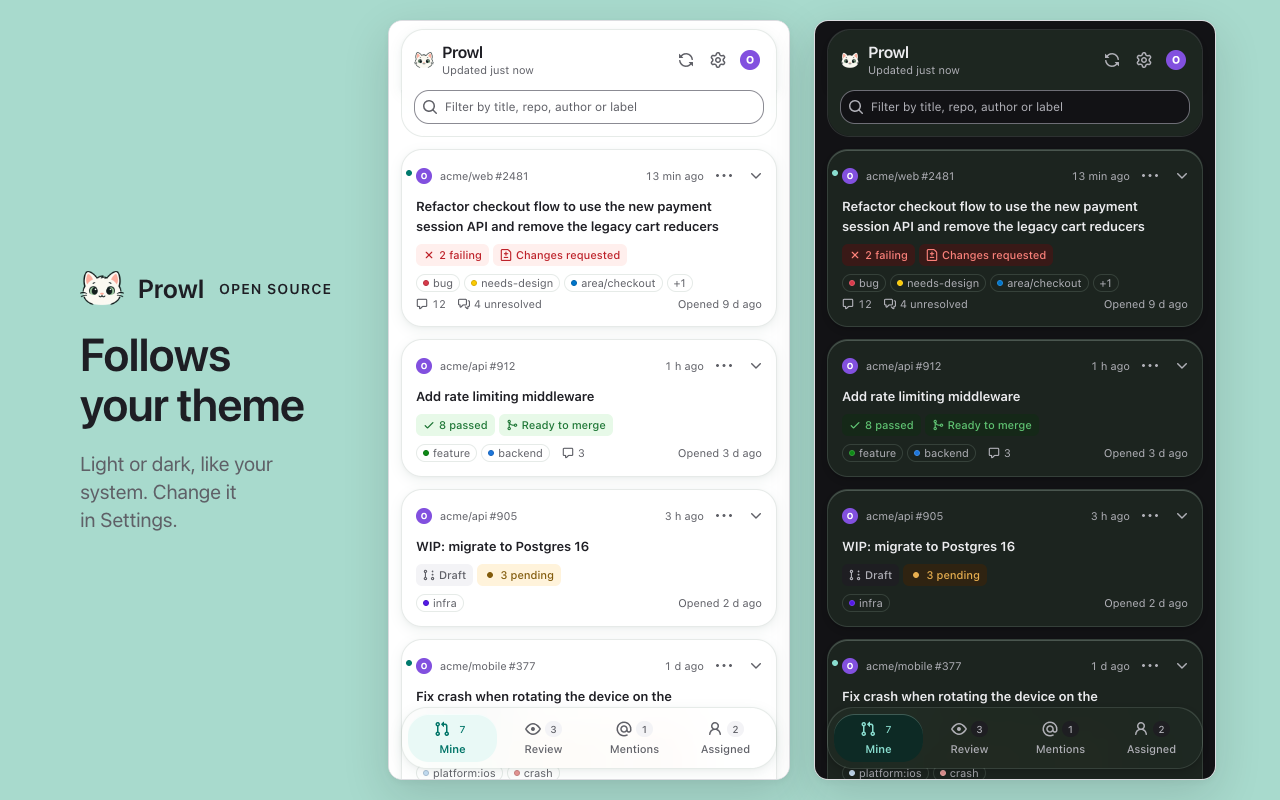
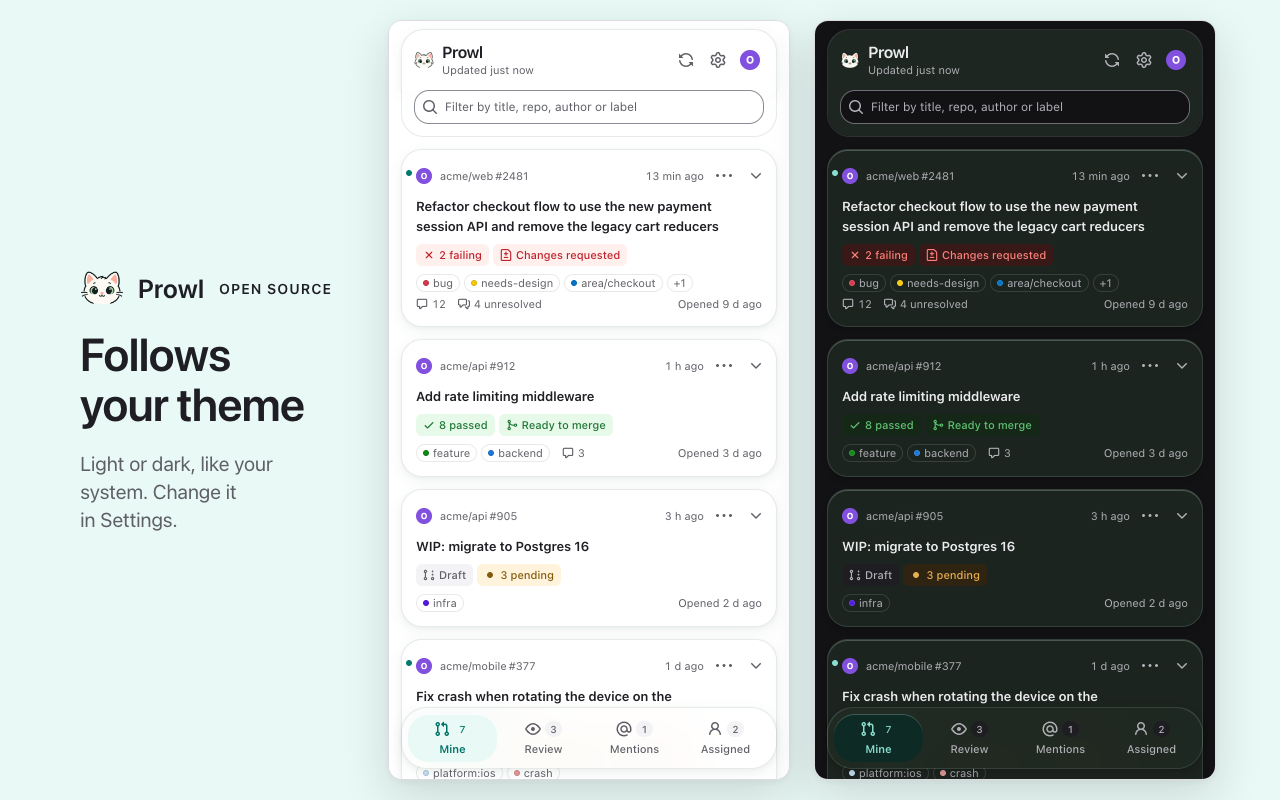
docs(store): use a lighter mint promotional design
Replace the dark dual-panel marquee with a pale mint composition and one
ready-to-merge PR preview captured from the real extension. Restore the light
mint backdrop across the store assets and use the high-resolution logo master.
Document the HTML/CSS generation pipeline and commit the regenerated PNGs.

diff --git a/tests/e2e/list.spec.ts b/tests/e2e/list.spec.ts
@@ -57,6 +57,38 @@ async function recordMessages(worker: Worker) {
     );
 }
 
+test('captures a ready-to-merge pull request for the store marquee', async ({
+  github,
+  seedStorage,
+  signIn,
+  poll,
+  openPanel,
+}) => {
+  github.onGraphQL('ProwlSearch', (variables) =>
+    searchResponse(
+      String(variables.query).includes('author:@me')
+        ? authored.filter((node) => node.id === AUTHORED.rateLimit)
+        : [],
+      variables,
+    ),
+  );
+  await seedStorage({
+    settings: { groupByRepo: false, sections: allSections() },
+    prLocal: {
+      snoozed: {},
+      muted: {},
+      seen: { [AUTHORED.rateLimit]: new Date().toISOString() },
+    },
+  });
+  await signIn();
+  await poll();
+  const panel = await openPanel();
+  await panel.emulateMedia({ colorScheme: 'light' });
+  await expect(panel.locator('.pr-card')).toHaveCount(1);
+  await expect(panel.getByText('Ready to merge', { exact: true })).toBeVisible();
+  await saveScreenshot(panel, 'list-ready');
+});
+
 test.describe('with a rich set of pull requests', () => {
   test.beforeEach(async ({ context, github, seedStorage, signIn, poll }) => {
     github.onGraphQL('ProwlSearch', (variables) =>

diff --git a/docs/chrome-web-store.md b/docs/chrome-web-store.md
@@ -77,6 +77,10 @@ The API cannot create items, so the first version is uploaded in the
      `screenshot-5-sign-in.png`. Small promo tile: `docs/store/promo-small.png`. Marquee:
      `docs/store/promo-marquee.png`. `pnpm store-images` rebuilds them from `docs/screenshots/`
      (run `pnpm screenshots` first when the UI changed).
+     Layouts and text are HTML/CSS in `scripts/store-images.mjs`, using the light mint
+     `--color-accent-bg` token and `docs/brand/prowl-logo-transparent.png`. The marquee uses
+     `list-ready.png`, captured from the real extension with a ready-to-merge demo PR by
+     `tests/e2e/list.spec.ts`; its preview crops one screenshot, without rearranging UI elements.
    - Homepage: <https://aemard.github.io/prowl/>. Support: <https://github.com/aemard/prowl/issues>.
 4. **Privacy**
    - Single purpose: "Show the user's GitHub pull requests and their status in the side panel,
